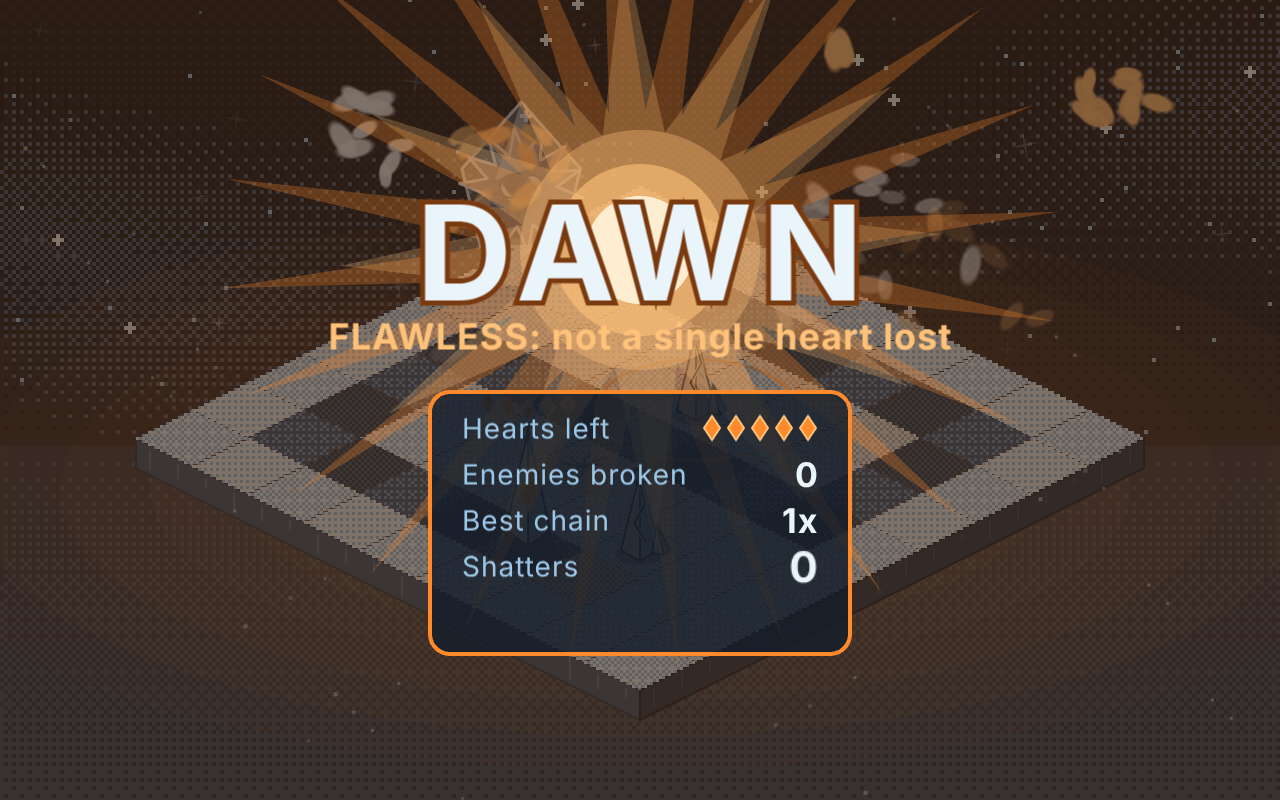
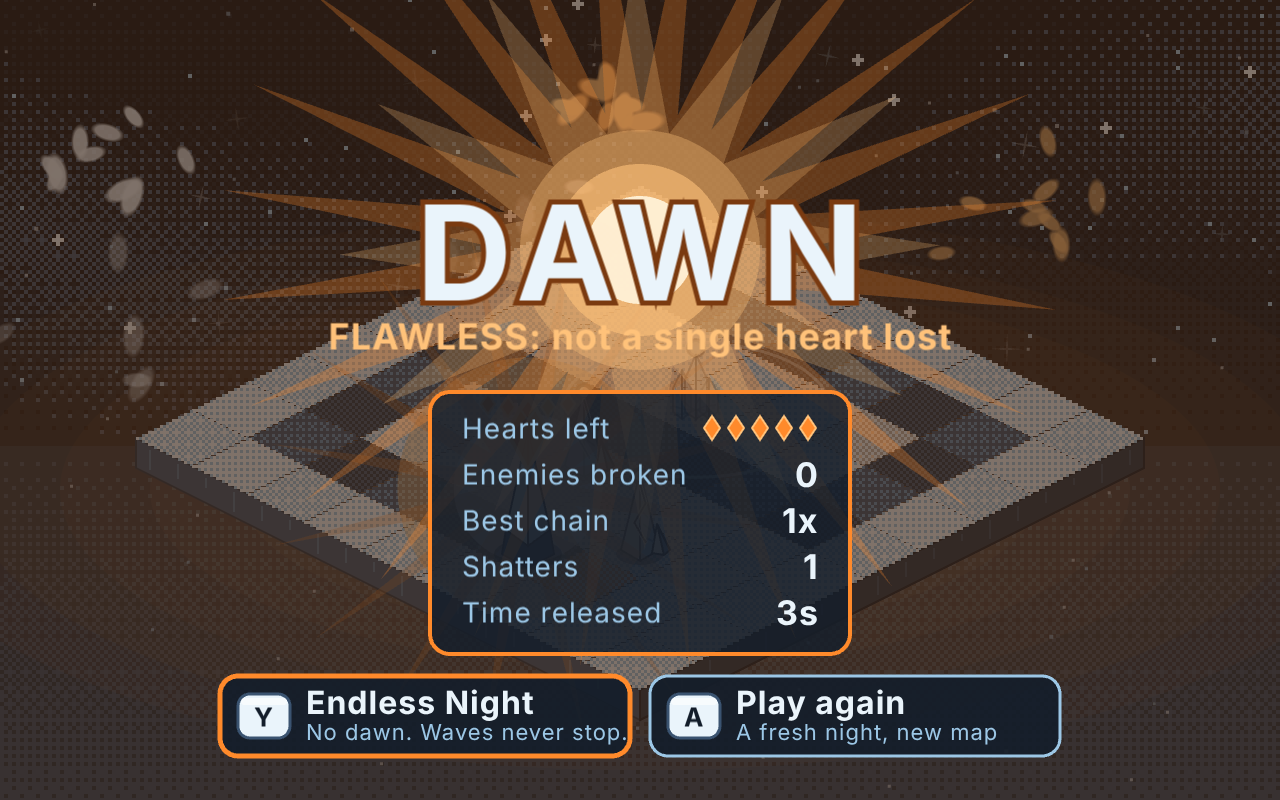
Stillwinter: endless night choice cards on win and loss screens
Claude-Session: https://claude.ai/code/session_011JBjUtYihjRYh297KB5YQM

diff --git a/src/protos/2026-10-30-stillwinter/index.ts b/src/protos/2026-10-30-stillwinter/index.ts
@@ -353,7 +353,10 @@ export function createPrototype(): Prototype {
   let winPanel!: Graphics;
   let winRows: { label: Text; value: Text }[] = [];
   let winHearts!: Graphics;
-  let winPrompt!: Text;
+  let cardsC!: Container;
+  let cards: { plate: Graphics; cap: Graphics; glyph: Text; title: Text; sub: Text }[] = [];
+  let cardsSig = '';
+  let overT = 0;
   let winT = 0;
   let winFlags = 0;
   let winConfetti = 0;
@@ -501,6 +504,39 @@ export function createPrototype(): Prototype {
     trayPlates.forEach((p, i) => p.plate.parent && p.plate.parent.position.set(640 + (i - 2) * 96, 744));
   }
 
+  function showCards(defs: [ButtonName, string, string][], alpha: number, clock: number): void {
+    const sig = JSON.stringify([defs, getDevice()]);
+    const cw = 410;
+    const gap = 20;
+    const total = defs.length * cw + (defs.length - 1) * gap;
+    if (sig !== cardsSig) {
+      cardsSig = sig;
+      cards.forEach((c, i) => {
+        const on = i < defs.length;
+        c.plate.visible = c.cap.visible = c.glyph.visible = c.title.visible = c.sub.visible = on;
+        if (!on) return;
+        const x = -total / 2 + i * (cw + gap);
+        c.glyph.text = glyph(defs[i][0]);
+        c.title.text = defs[i][1];
+        c.sub.text = defs[i][2];
+        const capW = Math.max(52, c.glyph.width + 26);
+        c.cap.clear().roundRect(x + 18, -22, capW, 44, 12).fill(C.ice).stroke({ width: 3, color: C.deep });
+        c.cap.roundRect(x + 21, -18, capW - 6, 7, 3).fill({ color: 0xffffff, alpha: 0.6 });
+        c.glyph.position.set(x + 18 + capW / 2, 1);
+        c.title.position.set(x + 18 + capW + 16, -14);
+        c.sub.position.set(x + 18 + capW + 16, 16);
+        (c.plate as unknown as { x0: number }).x0 = x;
+      });
+    }
+    defs.forEach((_, i) => {
+      const x = (cards[i].plate as unknown as { x0: number }).x0;
+      const hot = i === 0 && defs.length > 1 ? 0.5 + 0.5 * Math.sin(clock * 5) : 0;
+      cards[i].plate.clear().roundRect(x, -40, cw, 80, 18).fill({ color: C.night, alpha: 0.9 }).stroke({ width: 3 + hot * 2, color: i === 0 && defs.length > 1 ? C.orange : C.frost });
+    });
+    cardsC.alpha = alpha;
+    cardsC.position.set(640, 716 + (1 - alpha) * 20);
+  }
+
   function updateWin(dt: number): void {
     const s = sim.s;
     const tl = sim.telemetry();
@@ -564,8 +600,7 @@ export function createPrototype(): Prototype {
     });
     // prompts, pulsing
     const pk = Math.min(1, Math.max(0, (winT - 3.9) / 0.4));
-    winPrompt.text = `${glyph('y')}: Polar Night      ${glyph('a')}: again`;
-    winPrompt.alpha = pk * (0.7 + 0.3 * Math.sin(winT * 6));
+    showCards([['y', 'Endless Night', 'No dawn. Waves never stop.'], ['a', 'Play again', 'A fresh night, new map']], pk, winT);
     // confetti keeps falling for the first seconds
     winConfetti -= dt;
     if (winConfetti <= 0 && winT < 8) {
@@ -876,10 +911,23 @@ export function createPrototype(): Prototype {
       }
       winHearts = new Graphics();
       winC.addChild(winHearts);
-      winPrompt = mk(32, C.ice);
-      winPrompt.anchor.set(0.5);
-      winPrompt.position.set(640, 706);
-      winC.addChild(winPrompt);
+      // choice cards (shared by the win and loss screens): a key cap, a title and one line of explanation
+      cardsC = new Container();
+      cardsC.position.set(640, 716);
+      for (let i = 0; i < 2; i++) {
+        const plate = new Graphics();
+        const cap = new Graphics();
+        const g = mk(26, C.night);
+        g.anchor.set(0.5);
+        const title = mk(32, C.ice);
+        title.anchor.set(0, 0.5);
+        const sub = mk(22, C.frost, 'normal');
+        sub.anchor.set(0, 0.5);
+        cardsC.addChild(plate, cap, g, title, sub);
+        cards.push({ plate, cap, glyph: g, title, sub });
+      }
+      cardsC.alpha = 0;
+      endC.addChild(cardsC);
       winC.visible = false;
       endC.addChild(winC);
       endC.visible = false;
@@ -1189,7 +1237,7 @@ export function createPrototype(): Prototype {
         if (u > 0) dawnBar.poly(diamondPts(bx + bw * u, 38, 10, 16)).fill(f >= u ? C.ice : C.deep).stroke({ width: 2, color: C.slate });
       }
       star(dawnBar, 8, 17, 8, 0, bx + bw + 24, 38).fill(f >= 1 ? C.glow : C.orange);
-      nightText.text = s.endless ? `POLAR NIGHT  ${Math.floor(s.polar / 60)}:${String(Math.floor(s.polar % 60)).padStart(2, '0')}` : '';
+      nightText.text = s.endless ? `ENDLESS NIGHT  ${Math.floor(s.polar / 60)}:${String(Math.floor(s.polar % 60)).padStart(2, '0')}` : '';
       // the clock: a spiky ice crystal while frozen, a round dial with a sweeping hand while time flows
       thawBar.clear();
       const R = 50;
@@ -1330,6 +1378,10 @@ export function createPrototype(): Prototype {
       }
       const wasEnd = endC.visible;
       endC.visible = s.phase === 'over' || s.phase === 'won';
+      if (s.phase === 'over') {
+        overT += dt;
+        showCards([['a', 'Try again', 'Same night, fresh start']], Math.min(1, Math.max(0, (overT - 1.0) / 0.4)), overT);
+      } else if (s.phase !== 'won') overT = 0;
       if (s.phase === 'won') {
         winT += dt;
         updateWin(dt);
@@ -1694,7 +1746,7 @@ export function createPrototype(): Prototype {
           play('sw-dawn-step', { pitch: wholeTone(Number(data.step) - 1) });
           break;
         case 'endless':
-          banner('POLAR NIGHT', C.frost, 64, 'no dawn this time: hold the beacon as long as you can');
+          banner('ENDLESS NIGHT', C.frost, 64, 'no dawn this time: hold the beacon for as long as you can');
           endC.visible = false;
           tween(sunG, { alpha: 0 }, 900, ease.outQuad);
           sunrise = 0;
@@ -1711,7 +1763,7 @@ export function createPrototype(): Prototype {
           endTitle.text = data.reason === 'stuck' ? 'NOTHING LEFT TO BREAK' : 'THE BEACON WENT DARK';
           endTitle.style.fill = C.frost;
           endTitle.style.fontSize = 64;
-          { const tl = sim.telemetry(); const pn = s.endless ? `held ${Math.floor(s.polar / 60)}:${String(Math.floor(s.polar % 60)).padStart(2, '0')} into the Polar Night` : `${Math.round(Number(data.dawn) * 100)}% of the way to dawn`; endSub.text = `${pn}  ·  ${tl.kills} kills  ·  best chain ${tl.maxChain}\n${glyph('a')}: try again`; }
+          { const tl = sim.telemetry(); const pn = s.endless ? `held ${Math.floor(s.polar / 60)}:${String(Math.floor(s.polar % 60)).padStart(2, '0')} into the Endless Night` : `${Math.round(Number(data.dawn) * 100)}% of the way to dawn`; endSub.text = `${pn}  ·  ${tl.kills} kills  ·  best chain ${tl.maxChain}`; overT = 0; }
           overlayEnd.clear().rect(0, 0, 1280, 800).fill(C.night);
           shake(0.9);
           particles.emit('debris', X, Y - 90, { count: 60, color: C.ice, speed: 2.4, size: 1.5 });

diff --git a/src/protos/2026-10-30-stillwinter/sim.ts b/src/protos/2026-10-30-stillwinter/sim.ts
@@ -208,7 +208,7 @@ export interface SimState {
   faultsShown: boolean;
   /** A warm front: a row (axis 0) or column (axis 1) that will melt its spires when `t` runs out. */
   front: { axis: 0 | 1; idx: number; t: number; total: number } | null;
-  /** After dawn, the player can keep going into the Polar Night: no end but the beacon going dark. */
+  /** After dawn, the player can keep going into the Endless Night: no end but the beacon going dark. */
   endless: boolean;
   polar: number;
 }
